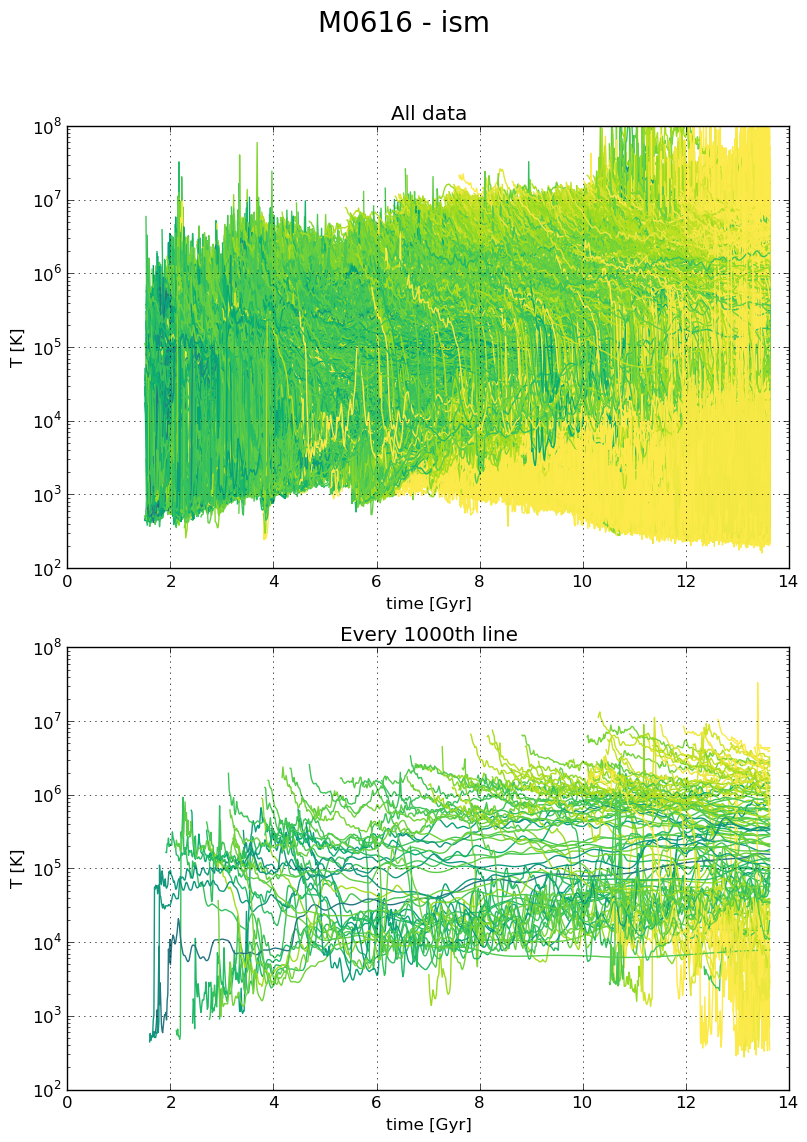
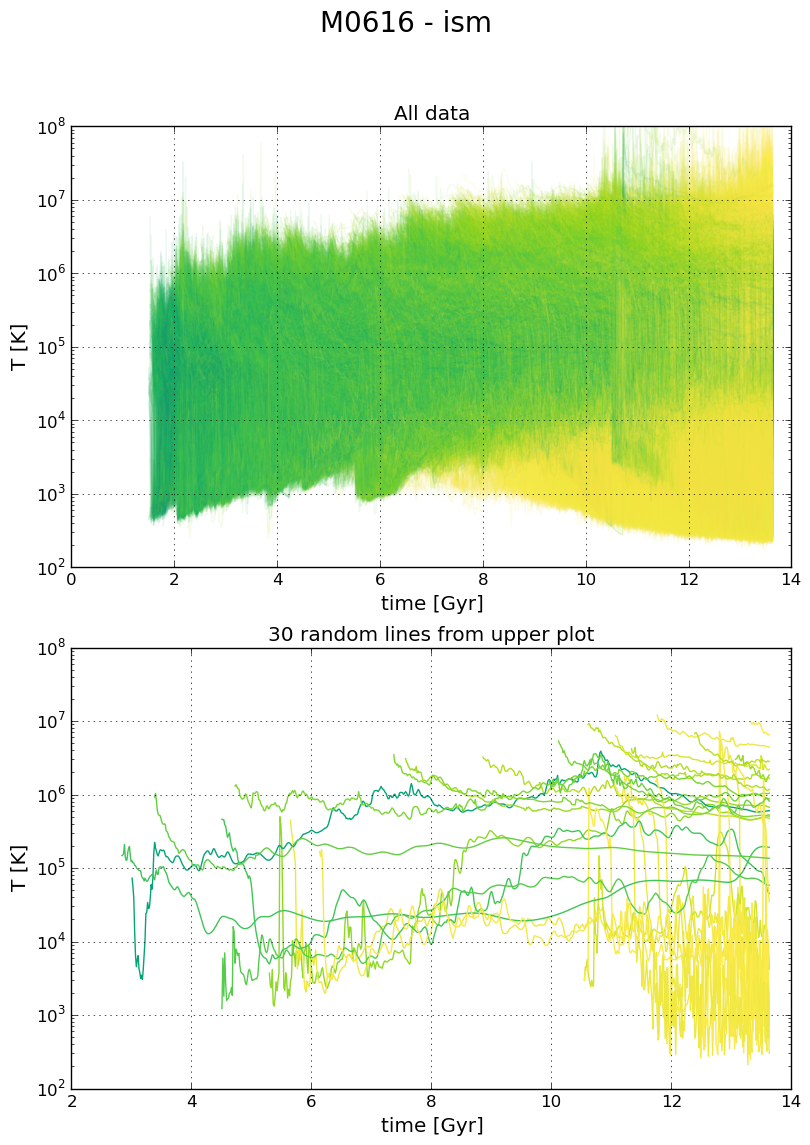
add a fixed number of lines last_ej_to_now

diff --git a/1/last_ej_to_now.py b/1/last_ej_to_now.py
@@ -1,4 +1,5 @@
 import numpy as np
+import numpy.random as rand
 import matplotlib.pyplot as plt
 from matplotlib import cm
 import matplotlib as mpl
@@ -26,8 +27,6 @@ def plot(args):
     id_mask = pg.IDMask(last_ids)
     s_idx = np.argsort(last_ids)
 
-    # iterate over all snapshots and get the cosmic time and
-    # IDs of all gas particles
     T_id = []
     t = []
     snaps = sorted(glob.glob(path))
@@ -60,12 +59,14 @@ def plot(args):
         ax[0].set_title('All data')
     for i, item in enumerate(to_plot):
         colorVal = scalarMap.to_rgba(colors[i])
-        ax[0].plot(item[:, 0], item[:, 1], color=colorVal)
+        ax[0].plot(item[:, 0], item[:, 1], color=colorVal, alpha=.1)
         
-        ax[1].set_title('Every 1000th line')
-    for i, item in enumerate(to_plot[::1000]):
-        colorVal = scalarMap.to_rgba(colors[1000*i])
-        ax[1].plot(item[:, 0], item[:, 1], color=colorVal)
+        line_number = 30
+        ax[1].set_title('%s random lines from upper plot' % line_number)
+        rand_indices = rand.randint(0, len(to_plot)-1, line_number)
+    for i in rand_indices:
+        colorVal = scalarMap.to_rgba(colors[i])
+        ax[1].plot(to_plot[i][:, 0], to_plot[i][:, 1], color=colorVal)
 
     f.tight_layout()
     plt.subplots_adjust(top=0.88)
@@ -75,5 +76,4 @@ def plot(args):
 
 p = Pool(4)
 p.map(plot, utils.combinations)
-
 
